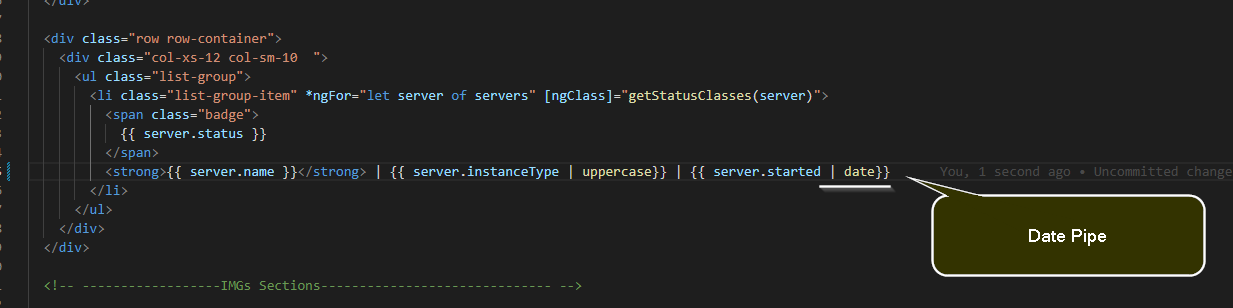
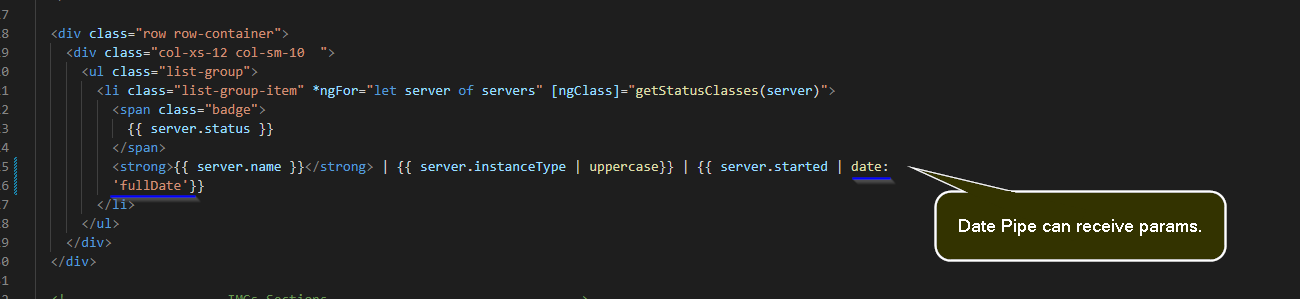
basic pipes done

diff --git a/angular_training/src/app/pipes/pipes-basic/pipes-basic.component.html b/angular_training/src/app/pipes/pipes-basic/pipes-basic.component.html
@@ -11,7 +11,7 @@
   <div class="row">
     <div class="col-xs-12">
       <h2>Basic Pipes</h2>
-      <h3>What is Pipes? Pipes is feature in Angular allow you  transform output in your template.</h3>
+      <h3>What is Pipes? Pipes is feature in Angular allow you transform output in your template.</h3>
     </div>
   </div>
 
@@ -22,7 +22,8 @@
           <span class="badge">
             {{ server.status }}
           </span>
-          <strong>{{ server.name }}</strong> | {{ server.instanceType | uppercase}} | {{ server.started | date}}
+          <strong>{{ server.name }}</strong> | {{ server.instanceType | uppercase}} | {{ server.started | date:
+          'fullDate' | uppercase }}
         </li>
       </ul>
     </div>
@@ -36,7 +37,8 @@
     </div>
   </div>
   <div class="col-xs-12 picture">
-    <h3>Template Pipe-Basic. Before to put UppercasePipe</h3>
+    <h3> <a href="https://angular.io/api/common/DatePipeConfig" target="_blank">UppercasePipe Pipe in Angular.io</a>
+    </h3>
     <div class="image">
       <img src="./../../../assets/img-pipes/01_basic_pipes_TEMPLATE_Before.png" alt="Arquivo Html">
     </div>
@@ -48,13 +50,15 @@
     </div>
   </div>
   <div class="col-xs-12 picture">
-    <h3>Template Pipe-Basic. After to put UppercasePipe</h3>
+
+    <h3>Template Pipe-Basic. After to put UppercasePipe Pipe</h3>
     <div class="image">
       <img src="./../../../assets/img-pipes/01_basic_pipes_TEMPLATE_After.png" alt="Arquivo Html">
     </div>
   </div>
   <div class="col-xs-12 picture">
-    <h3>Template Pipe-Basic. Before to put Date</h3>
+    <h3> <a href="https://angular.io/api/common/DATE_PIPE_DEFAULT_OPTIONS" target="_blank">Date Pipe in Angular.io</a>
+    </h3>
     <div class="image">
       <img src="./../../../assets/img-pipes/01_basic_pipesDate_TEMPLATE_Before.png" alt="Arquivo Html">
     </div>
@@ -66,9 +70,22 @@
     </div>
   </div>
   <div class="col-xs-12 picture">
-    <h3>Template Pipe-Basic. After to put UppercasePipe</h3>
+    <h3>After to put Chain Pipes Date and Uppercase</h3>
     <div class="image">
       <img src="./../../../assets/img-pipes/01_basic_pipesDate_TEMPLATE_After.png" alt="Arquivo Html">
+    </div>
+  </div>
+  <div class="col-xs-12 picture">
+    <h3> <a href="https://angular.io/api/common/DATE_PIPE_DEFAULT_OPTIONS" target="_blank">Chain Pipes in Angular.io</a>
+    </h3>
+    <div class="image">
+      <img src="./../../../assets/img-pipes/01_basic_ChainPipes_TEMPLATE_After.png" alt="Arquivo Html">
+    </div>
+  </div>
+  <div class="col-xs-12 picture">
+    <h3>Pipe-Basic.html</h3>
+    <div class="image">
+      <img src="./../../../assets/img-pipes/01_basic_pipesChainPipes_HTML.png" alt="Arquivo Html">
     </div>
   </div>
 </div>

diff --git a/angular_training/src/app/pipes/pipes-basic/pipes-basic.component.css b/angular_training/src/app/pipes/pipes-basic/pipes-basic.component.css
@@ -3,7 +3,7 @@
 
 .container {
   background: linear-gradient(68.15deg, #8ff88b 16.62%, #576469 85.61%);
-  height: max-content;
+  height: fit-content;
 }
 
 button {
@@ -29,6 +29,15 @@ h3 {
   color: #FFF2E7;
 }
 
+h3>a{
+  color: #FFF2E7;
+  text-decoration: none;
+}
+
+h3>a:hover{
+  color: #f1a86b;
+
+}
 /* -----Css Imagens explain-------- */
 
 .row-container {

diff --git a/angular_training/src/app/app.component.css b/angular_training/src/app/app.component.css
@@ -6,6 +6,9 @@ header {
   display: flex;
   justify-content: space-between;
 }
+body {
+  height: max-content;
+}
 
 a {
   color: inherit;
